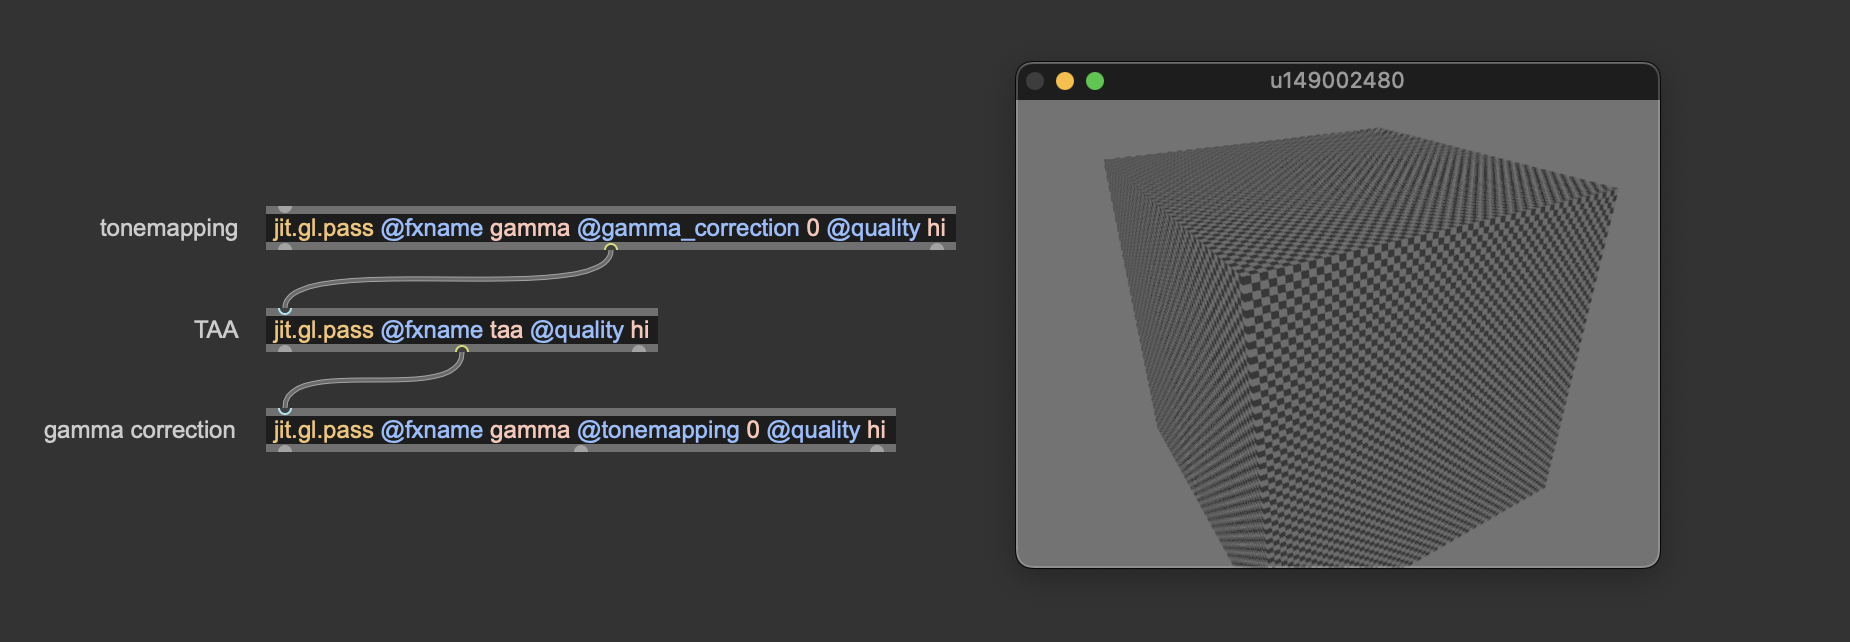
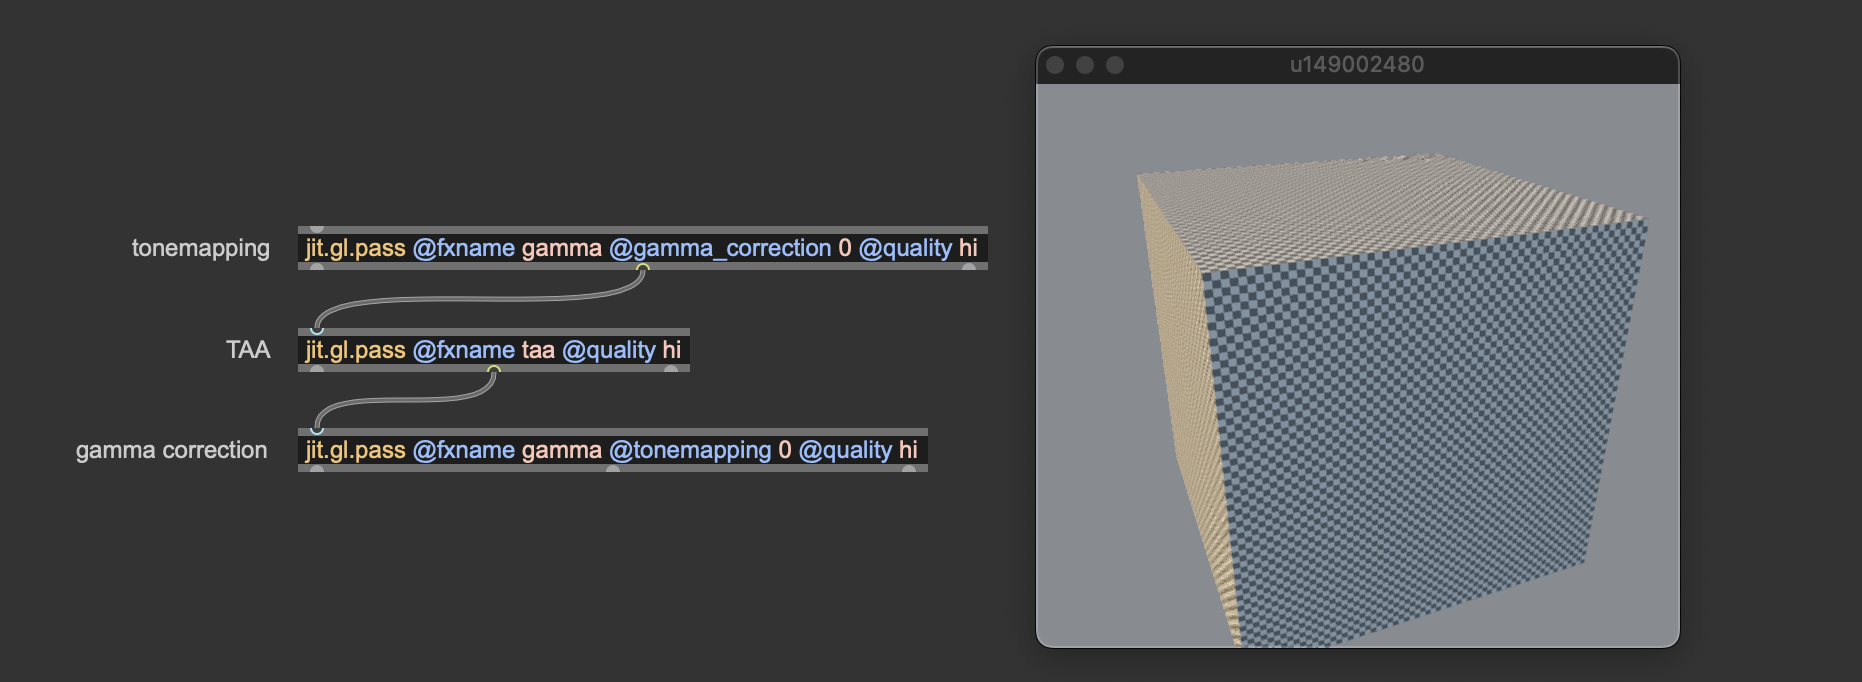
new image

diff --git a/visual-quality/index.md b/visual-quality/index.md
@@ -577,6 +577,20 @@ Left: TAA on; right: TAA off.
 
 ## Mipmapping
 
+Imagine you’re playing a video game, and you’re looking at a wall in the distance. The wall is covered with a brick texture, and when you get closer, you can see the texture in full detail. But when you’re far away, you don’t really need that high level of detail—you just need enough texture to recognize it as a wall. This is where mipmapping comes in. Mipmapping is a clever trick used to make textures look nice from all distances. 
+
+When a texture (like a brick wall) is loaded, the computer automatically makes smaller versions of it, called mipmaps. Each mipmap is a scaled-down version of the original texture.
+So, if the original texture is 1024x1024 pixels, mipmaps would be created at 512x512, 256x256, 128x128, and so on, all the way down to a tiny 1x1 pixel version. When you’re far from the wall, the graphics engine will use one of the smaller mipmaps instead of the original high-resolution texture. As you get closer, it switches to larger mipmaps, and when you’re really close, it uses the full-resolution texture. This set of pre-filtered textures can reduce aliasing artifacts appearing on textured surfaces.
+
+Mipmapping in Max is enabled at texture level: set {jit.gl.texture}'s @mipmap to "bilinear" and disable @rectangle.
+
+> [!IMPORTANT]
+> {jit.gl.texture}'s @rectangle must be disabled (0) to enable mipmappnig as non-rectangular textures are required for creating the mip levels.
+
+![](./images/visual-quality_061.png)
+![](./images/visual-quality_060.png)
+
+Left: Mipmapping enabled; right: Mipmapping disabled.
 
 
 # Lighting setup
